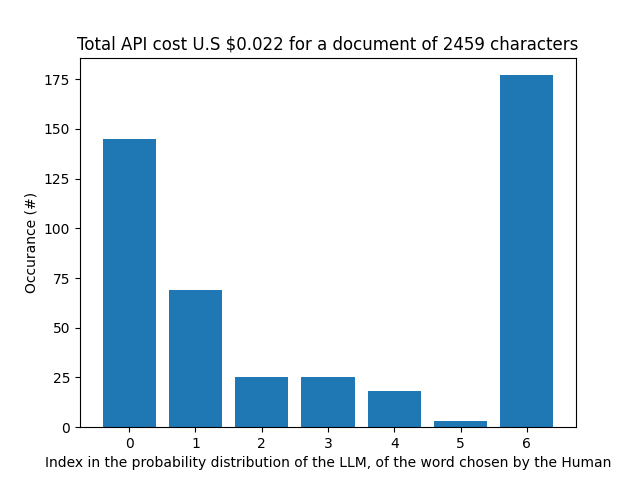
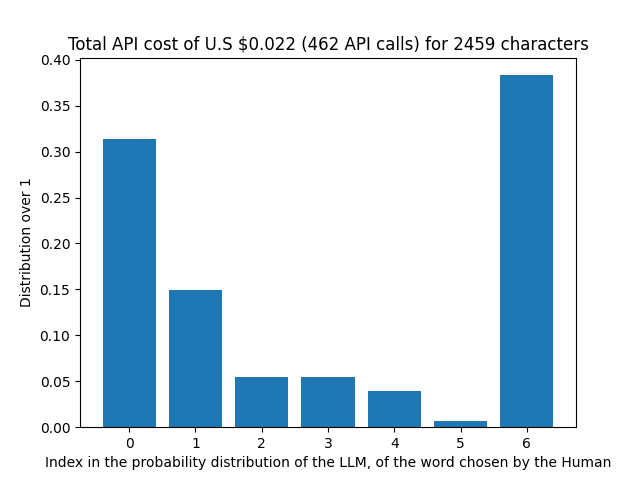
noramlise results over 1

diff --git a/cost-analysis/cost_per_char.py b/cost-analysis/cost_per_char.py
@@ -8,8 +8,14 @@ from dotenv import load_dotenv
 import matplotlib.pyplot as plt
 import numpy as np
 
-# Tuple define cost of input and output per token, in U.S $ 
-price_per_token = {"davinci-002": (0.000002, 0.000002), "gpt-3.5-turbo-1106": (0.000001,0.000001),  "babbage-002": (0.0000004, 0.0000004), "gpt-4o": (0.000005, 0.000015), "gpt-4-turbo": (0.00001, 0.00003)} 
+# Tuple define cost of input and output per token, in U.S $
+price_per_token = {
+    "davinci-002": (0.000002, 0.000002),
+    "gpt-3.5-turbo-1106": (0.000001, 0.000001),
+    "babbage-002": (0.0000004, 0.0000004),
+    "gpt-4o": (0.000005, 0.000015),
+    "gpt-4-turbo": (0.00001, 0.00003),
+}
 
 # Gather the number of tokens and char on large text sample to compute the average rate of tokens per char
 with open("./cost-analysis/shakespeare.txt", "r") as file:
@@ -18,16 +24,18 @@ with open("./cost-analysis/shakespeare.txt", "r") as file:
 
 encoder = tiktoken.encoding_for_model("text-davinci-002")
 raw_tokens = encoder.encode(raw_text)
-avg_token_per_char =  len(raw_tokens) / len(raw_text)
-
+avg_token_per_char = len(raw_tokens) / len(raw_text)
 
 
 def cost(characters_amount, model):
     global avg_token_per_char
     total_tokens = avg_token_per_char * characters_amount
     total_output_tokens = total_tokens
-    total_input_tokens = (total_tokens*(total_tokens+1))/2
-    return (total_input_tokens * price_per_token[model][0]) + (total_output_tokens * price_per_token[model][1])
+    total_input_tokens = (total_tokens * (total_tokens + 1)) / 2
+    return (total_input_tokens * price_per_token[model][0]) + (
+        total_output_tokens * price_per_token[model][1]
+    )
+
 
 # make data
 x = np.linspace(0, 100000, 100)
@@ -40,7 +48,12 @@ for model, price in price_per_token.items():
     ax.plot(x, y, label=model, linewidth=2.0)
 
 avg_characters_academic_paper = 45000
-ax.axvline(avg_characters_academic_paper, color='red', linestyle='--', label='Avg Academic Paper')
+ax.axvline(
+    avg_characters_academic_paper,
+    color="red",
+    linestyle="--",
+    label="Avg Academic Paper",
+)
 
 plt.xlabel("Number of Characters")
 plt.ylabel("Cost in U.S $")
@@ -50,13 +63,17 @@ plt.legend()
 plt.savefig("./cost-analysis/cost_per_char_inf_sequence_window.png")
 
 
-
 def cost_fixed_sequence_window(characters_amount, model, window_size):
     global avg_token_per_char
     total_tokens = avg_token_per_char * characters_amount
     total_output_tokens = total_tokens
-    total_input_tokens = (total_tokens/window_size) * ((window_size*(window_size+1))/2)
-    return (total_input_tokens * price_per_token[model][0]) + (total_output_tokens * price_per_token[model][1])
+    total_input_tokens = (total_tokens / window_size) * (
+        (window_size * (window_size + 1)) / 2
+    )
+    return (total_input_tokens * price_per_token[model][0]) + (
+        total_output_tokens * price_per_token[model][1]
+    )
+
 
 # plot
 fig, ax = plt.subplots()
@@ -66,7 +83,12 @@ for model, price in price_per_token.items():
     ax.plot(x, y, label=model, linewidth=2.0)
 
 avg_characters_academic_paper = 45000
-ax.axvline(avg_characters_academic_paper, color='red', linestyle='--', label='Avg Academic Paper')
+ax.axvline(
+    avg_characters_academic_paper,
+    color="red",
+    linestyle="--",
+    label="Avg Academic Paper",
+)
 
 plt.xlabel("Number of Characters")
 plt.ylabel("Cost in U.S $")
@@ -75,12 +97,18 @@ plt.legend()
 
 plt.savefig("./cost-analysis/cost_per_char_fixed_sequence_window_10.png")
 
+
 def cost_fixed_sequence_window(characters_amount, model, window_size):
     global avg_token_per_char
     total_tokens = avg_token_per_char * characters_amount
     total_output_tokens = total_tokens
-    total_input_tokens = (total_tokens/window_size) * ((window_size*(window_size+1))/2)
-    return (total_input_tokens * price_per_token[model][0]) + (total_output_tokens * price_per_token[model][1])
+    total_input_tokens = (total_tokens / window_size) * (
+        (window_size * (window_size + 1)) / 2
+    )
+    return (total_input_tokens * price_per_token[model][0]) + (
+        total_output_tokens * price_per_token[model][1]
+    )
+
 
 # plot
 fig, ax = plt.subplots()
@@ -90,7 +118,12 @@ for model, price in price_per_token.items():
     ax.plot(x, y, label=model, linewidth=2.0)
 
 avg_characters_academic_paper = 45000
-ax.axvline(avg_characters_academic_paper, color='red', linestyle='--', label='Avg Academic Paper')
+ax.axvline(
+    avg_characters_academic_paper,
+    color="red",
+    linestyle="--",
+    label="Avg Academic Paper",
+)
 
 plt.xlabel("Number of Characters")
 plt.ylabel("Cost in U.S $")

diff --git a/prototype.py b/prototype.py
@@ -13,7 +13,13 @@ SEQUENCE_WINDOW_SIZE = 10
 MODEL_ID = "davinci-002"
 
 input_tokens = output_tokens = 0
-price_per_token = {"davinci-002": (0.000002, 0.000002), "gpt-3.5-turbo-1106": (0.000001,0.000001),  "babbage-002": (0.0000004, 0.0000004), "gpt-4o": (0.000005, 0.000015), "gpt-4-turbo": (0.00001, 0.00003)} 
+price_per_token = {
+    "davinci-002": (0.000002, 0.000002),
+    "gpt-3.5-turbo-1106": (0.000001, 0.000001),
+    "babbage-002": (0.0000004, 0.0000004),
+    "gpt-4o": (0.000005, 0.000015),
+    "gpt-4-turbo": (0.00001, 0.00003),
+}
 encoder = tiktoken.encoding_for_model(MODEL_ID)
 
 
@@ -41,7 +47,7 @@ def iterative_word_predition(raw_tokens, encoder):
     global input_tokens, output_tokens
     for i in tqdm(range(1, len(raw_tokens))):
         if SEQUENCE_WINDOW_SIZE <= len(raw_tokens[:i]):
-            previous_sequence = encoder.decode(raw_tokens[i-SEQUENCE_WINDOW_SIZE:i])
+            previous_sequence = encoder.decode(raw_tokens[i - SEQUENCE_WINDOW_SIZE : i])
         else:
             previous_sequence = encoder.decode(raw_tokens[:i])
         next_token = raw_tokens[i]
@@ -79,17 +85,25 @@ iterative_word_predition(raw_tokens, encoder)
 print(word_selection_distribution)
 
 
+def normalize_list(data):
+    return [x / sum(data) for x in data]
+
+
 x_labels = list(range(len(word_selection_distribution)))
 
 # Plotting the histogram
-plt.bar(x_labels, word_selection_distribution, tick_label=x_labels)
+plt.bar(x_labels, normalize_list(word_selection_distribution), tick_label=x_labels)
 
 # Adding title and labels
-plt.xlabel("Index in the probability distribution of the LLM, of the word chosen by the Human")
-plt.ylabel("Occurance (#)")
-request_cost = (input_tokens * price_per_token[MODEL_ID][0]) + (output_tokens * price_per_token[MODEL_ID][1])
+plt.xlabel(
+    "Index in the probability distribution of the LLM, of the word chosen by the Human"
+)
+plt.ylabel("Distribution over 1")
+request_cost = (input_tokens * price_per_token[MODEL_ID][0]) + (
+    output_tokens * price_per_token[MODEL_ID][1]
+)
 plt.title(
-    f"Total API cost U.S ${round(request_cost, 3)} for a document of {len(raw)} characters"
+    f"Total API cost of U.S ${round(request_cost, 3)} ({output_tokens} API calls) for {len(raw)} characters"
 )
 
 # Display the plot

diff --git a/README.md b/README.md
@@ -57,10 +57,8 @@ Evaluation data is either generated by a human being during the pre-LLM era or b
 
 For instance, ```./data/gpt4o-input.txt```, indicates a text file written by the GPT-4o model.
 
-## Current Limitations to address
+## Current Limitations to fix:
 
 - [ ] The API endpoint I currently rely on, is not compatible with the newer instruction fine-tuned models (GPT 4 & 3.5).
 
 - [ ] Currently, no obvious visual difference is observed between samples written by humans and LLMs. It may be due to the very small size of the log probability distribution returned by the ```davinci-002``` model (usually only 5). It may also depend on the temperature or the top_p and top_k sampling values. 
-
-- [ ] Frequencies shall be normalised over the length of the document
